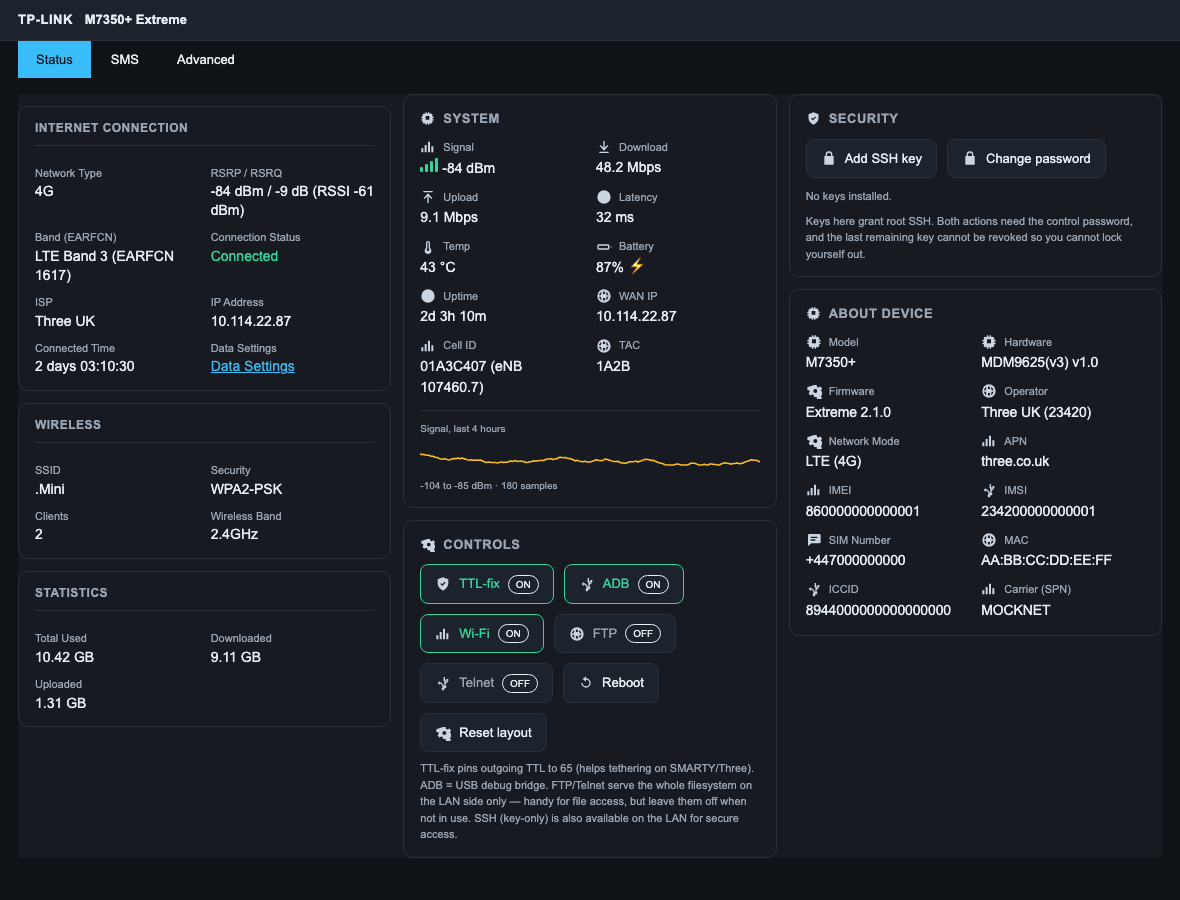
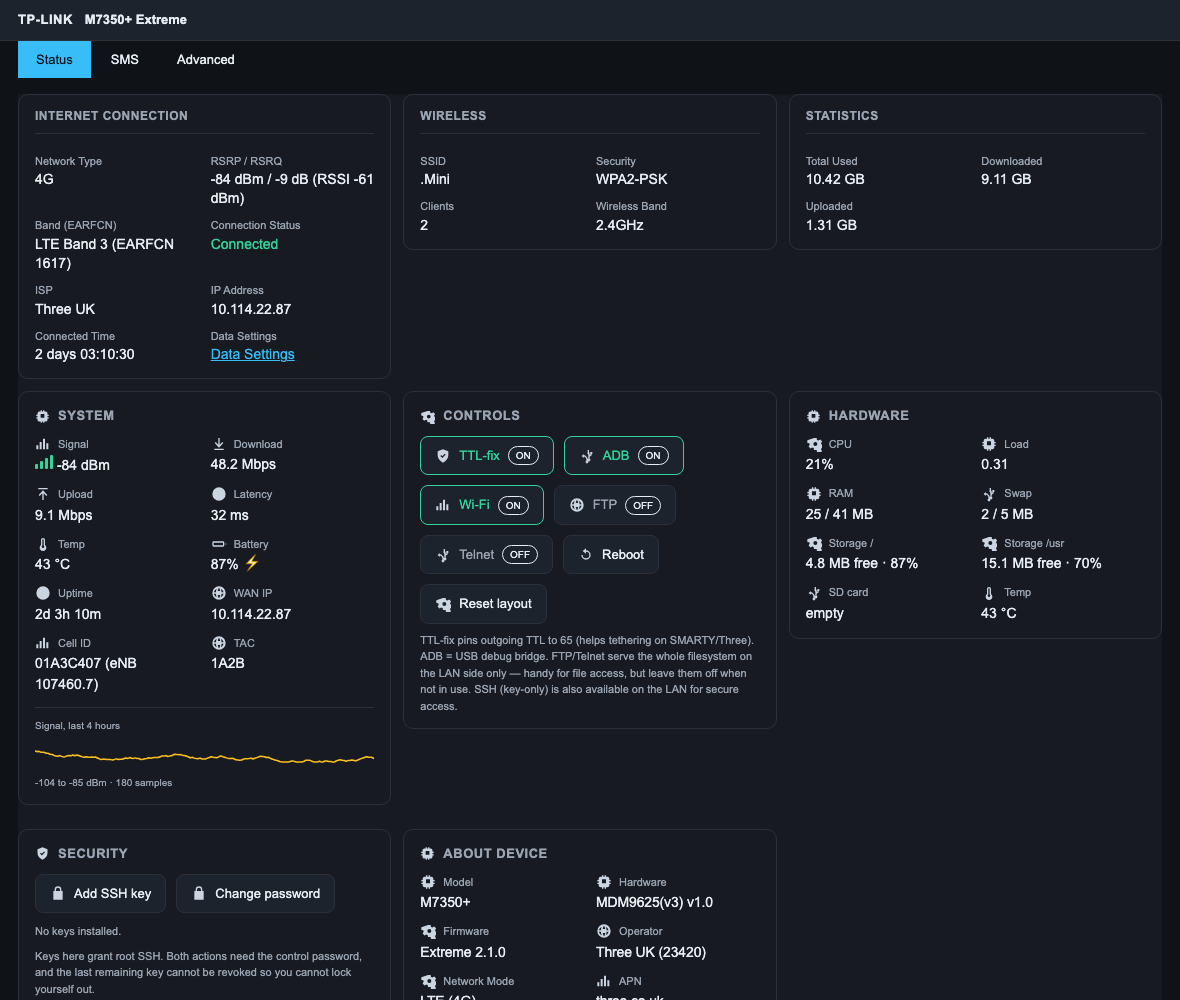
Release 2.5.0: resizable cards and hardware stats
Cards can now be resized as well as reordered, cycling one column / two /
full width, with the width persisted on the router alongside the order as
"name:width". The Status tab became a real CSS grid with dense flow so resized
cards form rows. Because every card's contents is an auto-fill grid, the content
genuinely reflows to the new width instead of stretching: the System card shows
two inner columns at 1x and nine at full width.

The first attempt at this silently did nothing. The replacement targeted the old
CSS-columns rule using a pixel value I had already changed, and the edit was not
asserted, so the layout kept using columns while the size classes were applied
to elements that ignored them. Measured rather than eyeballed this time:
307px/2 cols, 626px/4, 1264px/9.

New Hardware card, the eighth draggable and resizable tile: CPU utilisation,
load, RAM, swap, free space on / and /usr, SD-card slot state, temperature.

- CPU is real utilisation rather than load. /proc/stat is cumulative, so one
  read says nothing; the previous sample is kept in tmpfs and the delta since
  the last poll reported.
- The SD slot is reported honestly. /sys/class/mmc_host/mmc0 exists with nothing
  inserted, so it reads "empty" rather than implying the device has no slot, and
  reports free space and mount point once a card is in.

Verified live on the device: CPU 13%, RAM 38/41 MB, swap 2/5 MB, / 4.8 MB free
at 87%, /usr 15.1 MB free at 70%, SD empty. Mock fixtures updated to the real
[…]

diff --git a/device/WEBSERVER/www/sigmod.js b/device/WEBSERVER/www/sigmod.js
@@ -55,9 +55,9 @@
      * and floated labels. Every one of those has to be undone explicitly or the
      * container keeps its 630px whether or not anything is in it -- which is
      * what produced a tall empty band above the cards. */
-    '.statusPage{width:auto!important;height:auto!important;min-height:0!important;padding:0!important;margin:0!important;background:transparent!important;display:block!important;column-width:330px!important;column-gap:12px!important;}',
+    '.statusPage{width:auto!important;height:auto!important;min-height:0!important;padding:0!important;margin:0!important;background:transparent!important;display:grid!important;grid-template-columns:repeat(auto-fill,minmax(300px,1fr))!important;grid-auto-flow:row dense!important;gap:12px!important;align-items:start!important;}',
     '.statusPage .sigmod-card{margin:0 0 12px!important;width:auto!important;height:auto!important;box-sizing:border-box!important;break-inside:avoid!important;-webkit-column-break-inside:avoid!important;page-break-inside:avoid!important;background:#171b21!important;border:1px solid #2a313b!important;border-radius:10px!important;padding:14px 16px!important;}',
-    '.statusPage .pinSection,.statusPage .connectionSection,.statusPage .wifiSection,.statusPage .statisticSection,.statusPage .simSection,.statusPage .dataSection{width:auto!important;height:auto!important;min-height:0!important;float:none!important;margin:0 0 12px!important;height:auto!important;box-sizing:border-box!important;break-inside:avoid!important;-webkit-column-break-inside:avoid!important;page-break-inside:avoid!important;}',
+    '.statusPage .pinSection,.statusPage .connectionSection,.statusPage .wifiSection,.statusPage .statisticSection,.statusPage .simSection,.statusPage .dataSection{width:auto!important;height:auto!important;min-height:0!important;float:none!important;margin:0!important;height:auto!important;box-sizing:border-box!important;position:relative!important;}',
     '.statusPage .content-group{height:auto!important;min-height:0!important;margin-left:0!important;padding-top:0!important;min-width:0!important;overflow-wrap:break-word!important;}',
     '.statusPage .content-group>.content-label{float:none!important;width:auto!important;margin-right:0!important;}',
     '.statusPage .content-group>label{white-space:normal!important;min-width:0!important;overflow-wrap:break-word!important;}',
@@ -97,7 +97,7 @@
      * an !important rule here wins and suppresses the entire stock status block.
      * Keeping .pinSection out of the section styling below is enough to stop the
      * PIN panel appearing, without fighting the framework's own show/hide. */
-    '.statusPage>#statusContent{margin:0 0 12px!important;break-inside:avoid!important;-webkit-column-break-inside:avoid!important;page-break-inside:avoid!important;}',
+    '.statusPage>#statusContent{display:none!important;}',
     'a.icon-help,.icon-help{border:0!important;background:transparent!important;padding:0!important;margin:0!important;}',
     /* Bootstrap components used across Advanced/Wizard/SMS -- force dark so no
      * light-on-light text remains anywhere ("consider all objects"). */
@@ -158,6 +158,12 @@
     '.sigmod-key .kf{font-size:10px;color:#9aa4b2!important;overflow-wrap:break-word;font-family:monospace;}',
     '.sigmod-key .sigmod-btn{padding:5px 10px;font-size:11px;flex:0 0 auto;}',
     '.sigmod-tile{cursor:grab;}',
+    '.sigmod-w2{grid-column:span 2!important;}',
+    '.sigmod-wfull{grid-column:1/-1!important;}',
+    '@media(max-width:700px){.sigmod-w2,.sigmod-wfull{grid-column:auto!important;}}',
+    '.sigmod-size{position:absolute;top:8px;right:10px;z-index:5;font-size:10px;line-height:1;padding:3px 7px;border-radius:999px;border:1px solid #2a313b;background:#1d232c!important;color:#9aa4b2!important;cursor:pointer;user-select:none;opacity:0;transition:opacity .12s;}',
+    '.sigmod-tile:hover .sigmod-size{opacity:1;}',
+    '.sigmod-size:hover{color:#7dd3fc!important;border-color:#3a4552;}',
     '.sigmod-tile:active{cursor:grabbing;}',
     '.sigmod-drag{opacity:.35;}',
     '.sigmod-over{outline:2px dashed #38bdf8!important;outline-offset:2px;}',
@@ -419,6 +425,22 @@
         stat('signal', 'Carrier (SPN)', 'abSpn') +
       '</div>';
 
+    var hw = document.createElement('div');
+    hw.className = 'sigmod-card';
+    hw.id = 'sigmodHw';
+    hw.innerHTML =
+      '<h3>' + svg('chip', 15) + 'Hardware</h3>' +
+      '<div class="sigmod-grid">' +
+        stat('advanced', 'CPU', 'hwCpu') +
+        stat('chip', 'Load', 'hwLoad') +
+        stat('chip', 'RAM', 'hwRam') +
+        stat('usb', 'Swap', 'hwSwap') +
+        stat('advanced', 'Storage /', 'hwRoot') +
+        stat('advanced', 'Storage /usr', 'hwUsr') +
+        stat('usb', 'SD card', 'hwSd') +
+        stat('thermo', 'Temp', 'hwTemp') +
+      '</div>';
+
     var sec = document.createElement('div');
     sec.className = 'sigmod-card';
     sec.id = 'sigmodSec';
@@ -436,13 +458,13 @@
     // Our cards live in a container we own, so the grid can never interfere with
     // however the firmware chooses to lay out its own sections.
     if (host.className.indexOf('statusPage') >= 0) {
-      host.appendChild(sys); host.appendChild(ctl);
+      host.appendChild(sys); host.appendChild(ctl); host.appendChild(hw);
       host.appendChild(sec); host.appendChild(about);
     } else {
       var wrap = document.createElement('div');
       wrap.className = 'sigmod-cards';
       wrap.id = 'sigmodCards';
-      wrap.appendChild(sys); wrap.appendChild(ctl);
+      wrap.appendChild(sys); wrap.appendChild(ctl); wrap.appendChild(hw);
       wrap.appendChild(sec); wrap.appendChild(about);
       host.appendChild(wrap);
     }
@@ -527,6 +549,20 @@
         var t = document.getElementById('spTemp'); if (t && d.temp) t.textContent = d.temp + ' °C';
         var bt = document.getElementById('spBatt');
         if (bt && d.battery) bt.textContent = d.battery + '%' + (d.charging === '1' ? ' ⚡' : '');
+
+        var mb = function (kb) { var n = parseFloat(kb); return isNaN(n) ? null : (n / 1024); };
+        var setx = function (id, v) { var e = document.getElementById(id); if (e) e.textContent = v; };
+        setx('hwCpu',  d.cpu ? d.cpu + '%' : '—');
+        setx('hwLoad', d.load || '—');
+        var mt = mb(d.memtotal), mf = mb(d.memfree);
+        setx('hwRam',  (mt && mf !== null) ? (Math.round(mt - mf) + ' / ' + Math.round(mt) + ' MB') : '—');
+        var st = mb(d.swaptotal), sf = mb(d.swapfree);
+        setx('hwSwap', (st && sf !== null) ? (Math.round(st - sf) + ' / ' + Math.round(st) + ' MB') : '—');
+        var rf = mb(d.rootfree), uf = mb(d.usrfree);
+        setx('hwRoot', rf !== null ? (rf.toFixed(1) + ' MB free' + (d.rootpct ? ' · ' + d.rootpct + '%' : '')) : '—');
+        setx('hwUsr',  uf !== null ? (uf.toFixed(1) + ' MB free' + (d.usrpct ? ' · ' + d.usrpct + '%' : '')) : '—');
+        setx('hwSd',   d.sd || '—');
+        setx('hwTemp', d.temp ? d.temp + ' °C' : '—');
       } catch (e) {}
     };
     x.open('GET', CGI_SYS + '?t=' + (new Date()).getTime(), true);
@@ -787,10 +823,59 @@
     { k: 'stats',  sel: '.statisticSection' },
     { k: 'system', sel: '#sigmodPanel' },
     { k: 'ctl',    sel: '#sigmodCtl' },
+    { k: 'hw',     sel: '#sigmodHw' },
     { k: 'sec',    sel: '#sigmodSec' },
     { k: 'about',  sel: '#sigmodAbout' }
   ];
   var ORDER_KEY = 'sigmodTileOrder';
+  var WIDTHS = ['1', '2', 'full'];
+  var tileWidth = {};                       // key -> '1' | '2' | 'full'
+
+  function applyWidth(el, w) {
+    el.classList.remove('sigmod-w2', 'sigmod-wfull');
+    if (w === '2') el.classList.add('sigmod-w2');
+    else if (w === 'full') el.classList.add('sigmod-wfull');
+  }
+
+  function encodeLayout(keys) {
+    return keys.map(function (k) {
+      var w = tileWidth[k] || '1';
+      return w === '1' ? k : (k + ':' + w);
+    }).join(',');
+  }
+
+  function decodeLayout(str) {
+    var keys = [];
+    (str || '').split(',').forEach(function (part) {
+      if (!part) return;
+      var bits = part.split(':');
+      keys.push(bits[0]);
+      if (bits[1] && WIDTHS.indexOf(bits[1]) >= 0) tileWidth[bits[0]] = bits[1];
+    });
+    return keys;
+  }
+
+  // A resize control per card: cycles one column -> two -> full width. The
+  // content inside every card is an auto-fill grid, so it reflows to whatever
+  // width the card ends up with; nothing needs to know its own size.
+  function addSizer(el, key) {
+    if (el.querySelector('.sigmod-size')) return;
+    var b = document.createElement('span');
+    b.className = 'sigmod-size';
+    b.setAttribute('draggable', 'false');
+    var label = function () { var w = tileWidth[key] || '1'; b.textContent = w === 'full' ? 'FULL' : (w + '\u00d7'); };
+    label();
+    b.onclick = function (e) {
+      e.stopPropagation();
+      var w = tileWidth[key] || '1';
+      tileWidth[key] = WIDTHS[(WIDTHS.indexOf(w) + 1) % WIDTHS.length];
+      applyWidth(el, tileWidth[key]);
+      label();
+      var host = document.querySelector('.statusPage');
+      if (host) saveOrder(currentOrder(host));
+    };
+    el.appendChild(b);
+  }
 
   // The order lives on the ROUTER, so the layout follows the device rather than
   // whichever browser last touched it. localStorage is kept only as a cache, so
@@ -812,7 +897,7 @@
       try {
         var d = JSON.parse(x.responseText);
         if (d && d.order) {
-          var arr = d.order.split(',');
+          var arr = decodeLayout(d.order);
           if (arr.length) {
             serverOrder = arr;
             try { localStorage.setItem(ORDER_KEY, JSON.stringify(arr)); } catch (e) {}
@@ -830,7 +915,7 @@
     try { localStorage.setItem(ORDER_KEY, JSON.stringify(keys)); } catch (e) {}
     // Writing is password-gated like every other mutation. api() reuses the
     // stored password and prompts once if it does not have one yet.
-    api('POST', CGI_TILES, keys.join(','), function (d, st) {
+    api('POST', CGI_TILES, encodeLayout(keys), function (d, st) {
       if (st === 503) window.alert('Layout not saved to the router: set a control password first (/etc/signalmod.pw).');
       else if (d && d.error) window.alert('Layout not saved: ' + d.error);
     });
@@ -870,10 +955,15 @@
       if (live[i].el.parentNode !== host) { ok = false; break; }
     }
     if (ok && currentOrder(host).join(',') !== live.map(function (x) { return x.k; }).join(',')) ok = false;
-    if (ok) return;
+    if (ok) {
+      live.forEach(function (x) { addSizer(x.el, x.k); applyWidth(x.el, tileWidth[x.k] || '1'); });
+      return;
+    }
 
     live.forEach(function (x) {
       if (!x.el.getAttribute('data-tile')) { x.el.setAttribute('data-tile', x.k); wireTile(x.el); }
+      addSizer(x.el, x.k);
+      applyWidth(x.el, tileWidth[x.k] || '1');
       host.appendChild(x.el);   // appendChild moves an existing node
     });
   }
@@ -914,6 +1004,8 @@
   function resetTileOrder() {
     serverOrder = null;
     try { localStorage.removeItem(ORDER_KEY); } catch (e) {}
+    tileWidth = {};
+    TILES.forEach(function (t) { var el = tileEl(t); if (el) applyWidth(el, '1'); });
     api('POST', CGI_TILES, TILES.map(function (t) { return t.k; }).join(','), function () {});
     var host = document.querySelector('.statusPage');
     if (!host) return;

diff --git a/CHANGELOG.md b/CHANGELOG.md
@@ -2,6 +2,24 @@
 
 All notable changes to the M7350 Extreme mod are documented here.
 
+## [2.5.0] — 2026-08-31  ·  **customisable dashboard**
+
+### Added
+- **Resizable cards.** Every card carries a size control that cycles one column,
+  two columns, full width. The Status tab is now a real CSS grid with dense flow,
+  so resized cards form proper rows. Every card's contents is an auto-fill grid,
+  so it genuinely reflows to the width rather than just stretching: the System
+  card goes from two inner columns at 1x to nine at full width.
+- **Hardware card**: CPU utilisation, load average, RAM, swap, free space on `/`
+  and `/usr`, SD-card slot state and temperature. It is the eighth draggable and
+  resizable tile.
+  - CPU is real utilisation, not load: `/proc/stat` is cumulative, so the
+    previous sample is kept in tmpfs and the delta since the last poll reported.
+  - The SD slot is reported honestly. `/sys/class/mmc_host/mmc0` exists with no
+    card in it, so it shows `empty` rather than pretending the feature is absent,
+    and shows free space and mount point once a card is present.
+- Card widths persist on the router alongside the order, as `name:width`.
+
 ## [2.4.0] — 2026-08-31  ·  **arrangeable dashboard**
 
 ### Fixed

diff --git a/README.md b/README.md
@@ -1,6 +1,6 @@
 # TP-Link M7350 — LTE signal stats + dark UI mod
 
-> **Use [v2.4.0](https://github.com/louij2/tp-link-m7350-signal-mod/releases) or
+> **Use [v2.5.0](https://github.com/louij2/tp-link-m7350-signal-mod/releases) or
 > later.** Earlier versions were progressively less safe by default: v2.0.0
 > shipped the optional root tools (FTP/Telnet/web console) with **no
 > authentication**; v2.1.0 added a password gate but still fell back to
@@ -39,6 +39,8 @@ GL.iNet router): you can watch signal quality and the serving band straight from
 | **Serving cell**: Cell ID, eNodeB, TAC | System panel |
 | **SIM identity**: ICCID + Carrier (SPN), read from the card | About Device |
 | **Drag-and-drop** card arrangement, saved on the router | Post-login Status tab |
+| **Resizable cards** (1x / 2x / full width), content reflows to fit | Post-login Status tab |
+| **Hardware**: CPU, load, RAM, swap, storage, SD-card slot | Post-login Status tab |
 | **Prometheus** metrics endpoint (for Grafana) | `http://192.168.0.1/cgi-bin/metrics.sh` |
 | Modern dark theme with **inline-SVG icons** (readable on every page, incl. Advanced) | Whole web UI (login + admin) |
 | Root web console (optional) | `http://192.168.0.1/console.html` |
